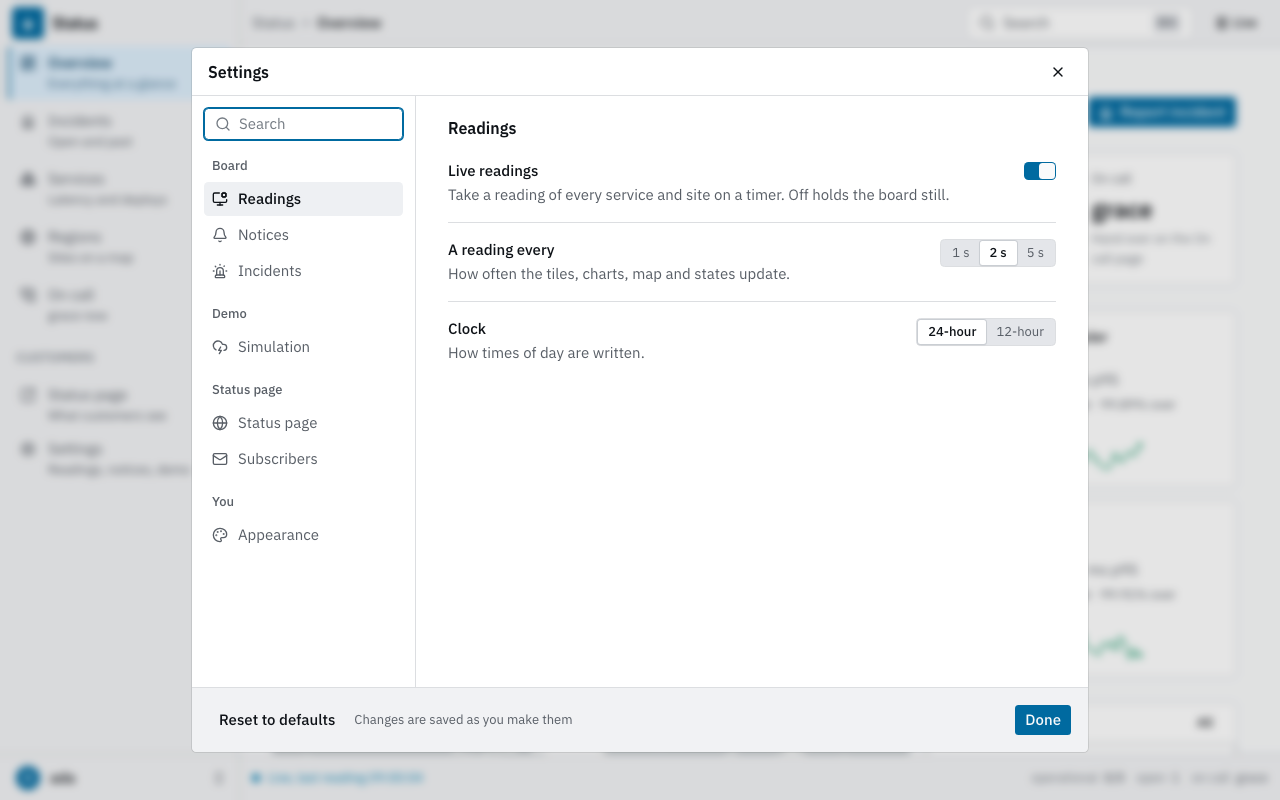
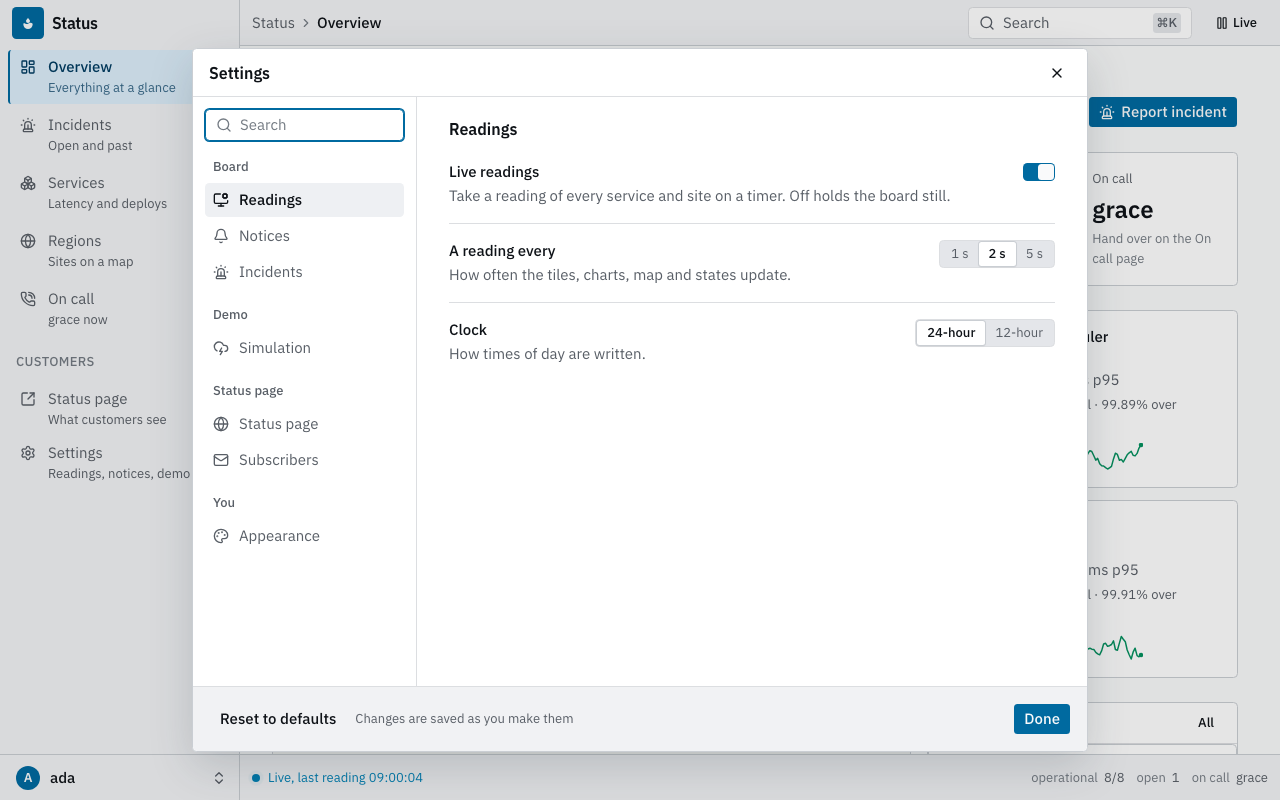
chore: parity checked against sokkel-ui 0.28.0, the web screens shot again
Status records the parts egui has gained; tasks needs nothing, the web having caught up with
the overlay looks egui drew ahead of it.

diff --git a/docs/parity/status.md b/docs/parity/status.md
@@ -83,6 +83,13 @@ and never chase a difference made of numbers.
 - Next, largest first:
   the dashboard under them; the incidents table (a stacked, labeled list under a bar with its search, row count and sort; `StatusChip`, `TagChips`, `RelativeTime`); the map of sites; the public page; settings; the live simulation behind all of them.
 
+## Last checked
+
+Against sokkel-ui `4f2cf282` (0.28.0): every web screen shot again, 45 of the example's 70 parts
+with an egui counterpart. The rail's untitled first group now stands 4 lower on the web, as egui
+already draws it; the Customers group's described entries stand 54 apart on the web and 58 in
+egui, a difference older than this check, still to settle.
+
 ## Groundwork
 
 - **Manifest:** `parity/status.json`: the example's 70 library parts, 32 with an egui counterpart,

diff --git a/docs/parity/tasks.md b/docs/parity/tasks.md
@@ -50,6 +50,12 @@ counterpart.
 | settings_demo | The section has no Reset to defaults (`SettingsSection::reset(false)`). |
 | settings_reset | `ConfirmDialog` over the settings, 384 wide (`sm`; a `Dialog` is 512 by default, as the dialog spec says) with its 65 footer, its detail wrapping one word earlier than the web's. |
 
+## Last checked
+
+Against sokkel-ui `4f2cf282` (0.28.0): no file of the example changed; the library's overlays did,
+to the looks egui drew ahead of the web (the palette, selects and menus, the settings dialog),
+and the web screens shot again now match egui's there.
+
 ## Tokens
 
 The tokens are sokkel-design's (contract 0.28.0, released at `78dae1b`, made from sokkel-ui
